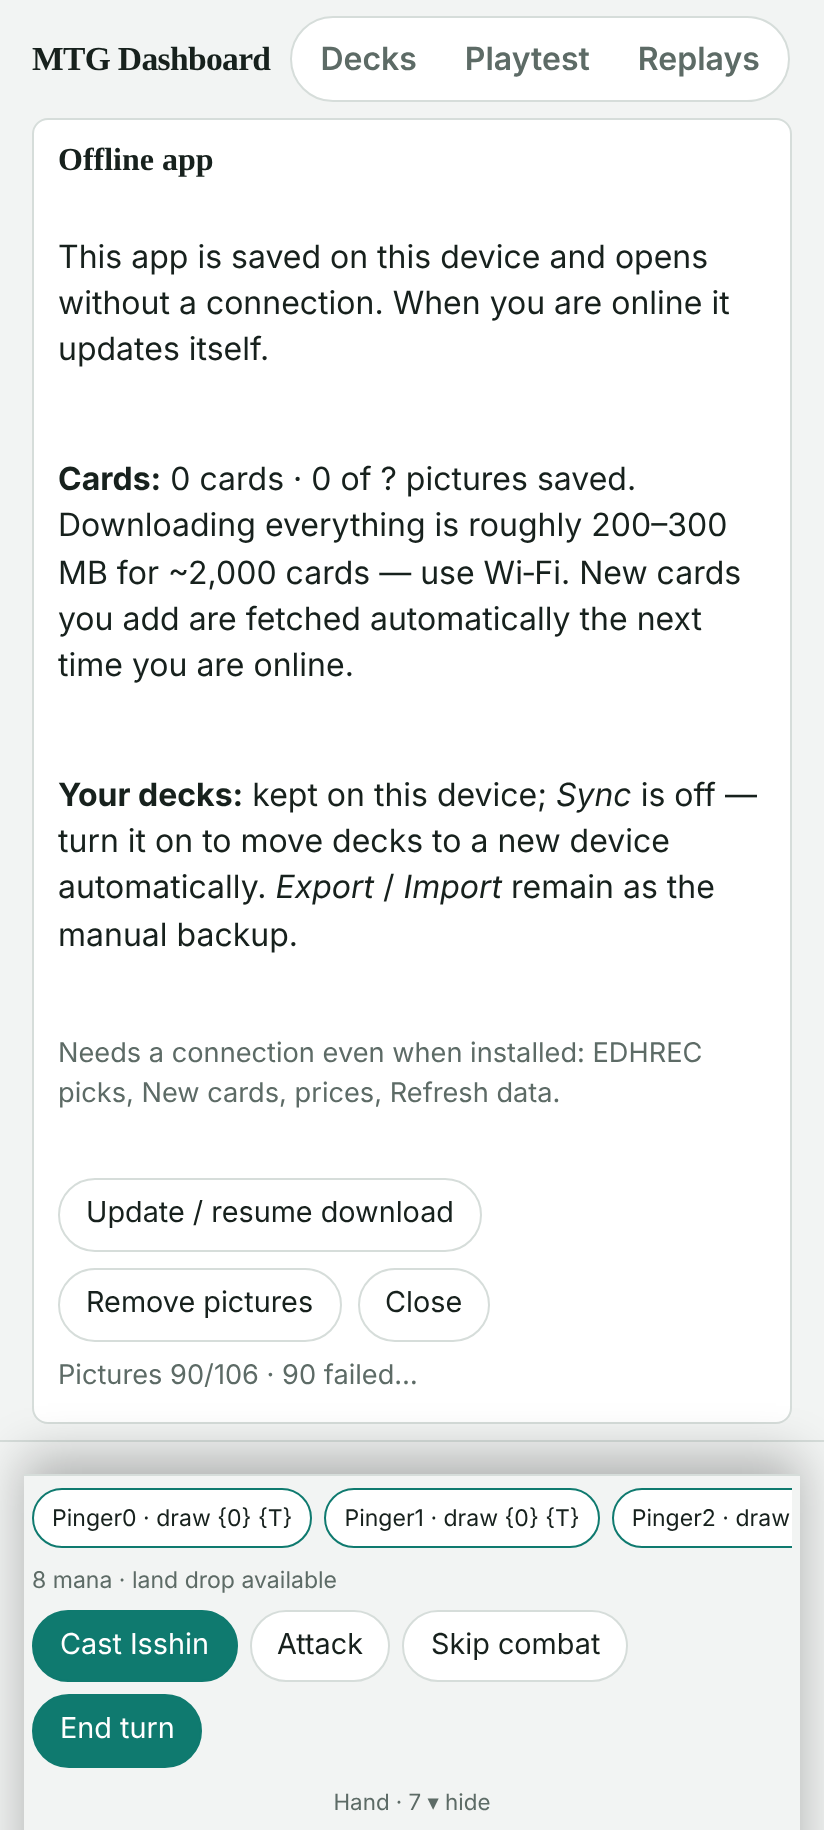
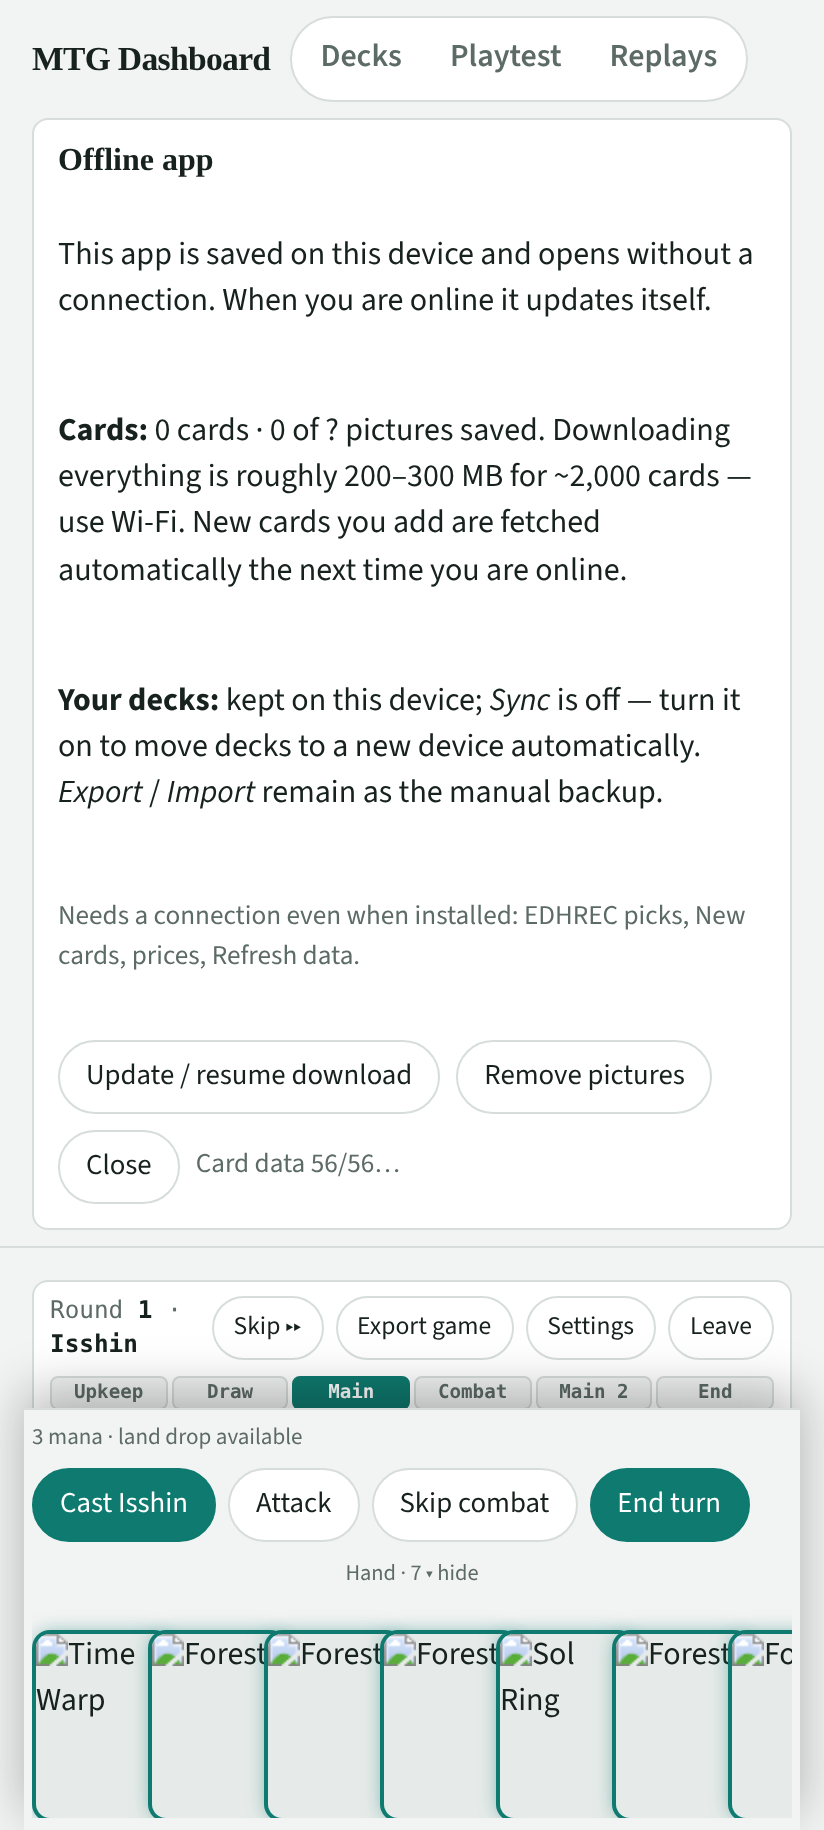
v148: Phyrexian Tower taps for colourless; black only by sacrificing a creature
Claude-Session: https://claude.ai/code/session_01CKgS67nCipgpfvuKAsciJ7

diff --git a/playtest.js b/playtest.js
@@ -2481,6 +2481,11 @@ function tagCard(c) {
     }
     for (const col of 'WUBRG') if (new RegExp('add \\{' + col + '\\}|\\{t\\}: add \\{[^}]*' + col, 'i').test(o) || new RegExp('\\b' + { W: 'plains', U: 'island', B: 'swamp', R: 'mountain', G: 'forest' }[col] + '\\b', 'i').test(front)) card.produces.push(col);
     for (const mm of o.matchAll(/\{t\}(?:, pay \d+ life)?: add ([^.\n]+)/gi)) for (const s of mm[1].matchAll(/\{([wubrg])\}/gi)) { const col = s[1].toUpperCase(); if (!card.produces.includes(col)) card.produces.push(col); }
+    { /* b42: a colour that only appears behind an extra cost is not what the land taps for. Phyrexian Tower ("{T}: Add {C}" / "{T}, Sacrifice a creature: Add {B}{B}") was tapping for black on its own. */
+      const cols = t => [...t.matchAll(/\{([wubrg])\}/gi)].map(x => x[1].toUpperCase()); const bad = new Set(), good = new Set();
+      for (const ln of o.split('\n')) { const mm = ln.match(/^([^:"]*): add ([^.\n]+)/i); if (!mm) continue; const extra = /\bsacrifice (?!this\b)|\bdiscard\b/i.test(mm[1]); for (const k of cols(mm[2])) (extra ? bad : good).add(k); }
+      const basic = col => new RegExp('\\b' + { W: 'plains', U: 'island', B: 'swamp', R: 'mountain', G: 'forest' }[col] + '\\b', 'i').test(front);
+      if (bad.size) card.produces = card.produces.filter(k => !bad.has(k) || good.has(k) || basic(k)); }
     if (/any color in your commander's color identity/i.test(o)) card.cmdIdentity = true;
     if (/add one mana of any color|mana of any (one )?color|any type/i.test(o) || /command tower|mana confluence|city of brass|exotic orchard|reflecting pool|forbidden orchard|gemstone caverns|path of ancestry/i.test(c.name)) card.produces = ['W', 'U', 'B', 'R', 'G'];
     if (/^\{t\}: add one mana of any color that a land an opponent controls could produce/m.test(o)) card.landDyn = 'oppLands';
@@ -2490,6 +2495,7 @@ function tagCard(c) {
     { const ma = parseManaAbility(o.split('\n//\n')[0]); card.manaAmount = ma ? ma.amount : 1; }
     { const fc = (c.type || '').split(' // '); if (fc.length > 1 && /\bLand\b/.test(fc[1]) && (c.oracle || '').includes('\n//\n')) { const back = tagCard({ name: c.name.split(' // ')[1] || c.name, type: fc[1], oracle: (c.oracle || '').split('\n//\n')[1] || '', cmc: 0, img: c.img }); back.orig = card; card.backLand = back; card.pathway = true; } }
     tagLandEntry(card, o); tagGyHate(card, o); tagAbilities(card); tagFlags(card, c, o, true);
+    { /* b42: …and the costed mode is its own ability: tap, sacrifice a creature, add that mana */ const sm = o.match(/^\{t\}, sacrifice an? (creature|artifact|land|swamp|permanent): add ((?:\{[wubrgc]\})+)\.?$/im); if (sm && !(card.abilities || []).some(a => a.mana && a.sacOther)) { const colors = [...sm[2].matchAll(/\{([wubrgc])\}/gi)].map(x => x[1].toUpperCase()); (card.abilities = card.abilities || []).push({ zone: 'battlefield', label: 'sacrifice for ' + sm[2].toUpperCase(), cost: { generic: 0, pips: { W: 0, U: 0, B: 0, R: 0, G: 0 }, total: 0, x: false }, tap: true, sacSelf: false, exileSelf: false, discardSelf: false, life: 0, exileOthers: 0, discard: 0, sacOther: sm[1].toLowerCase(), speed: 'instant', mana: true, ops: [{ op: 'addMana', colors }], text: 'add ' + sm[2].toLowerCase() + '.' }); } }
     if (card.saga) { const sv = card.saga; card.saga = sv; }
     return card;
   }

diff --git a/index.html b/index.html
@@ -825,7 +825,7 @@ function toggleCheck(open){const p=$('#checkpanel');p.hidden=!open;if(!open)retu
       const missing=rows.filter(r=>r.a.missing),cond=rows.filter(r=>!r.a.missing&&r.a.generic),fine=rows.length-missing.length-cond.length;
       const notFound=[...where.entries()].filter(([k])=>!found.has(k)).map(([,v])=>v.name);
       const li=r=>`<li><b>${esc(r.c.name)}</b> <span class="note">· ${esc(r.decks.join(', '))}</span><ul style="margin:2px 0 6px;padding-left:16px">${r.a.lines.filter(x=>x.status==='missing'||x.status==='generic').map(x=>`<li class="note">${x.status==='missing'?'✗':'?'} ${esc(x.line)}</li>`).join('')}</ul></li>`;
-      const flagged=[...missing,...cond];S.checkReport=JSON.stringify({generated:new Date().toISOString(),engine:'v147',cards:flagged.map(r=>[0,r.c.name,r.c.mana,r.c.type,r.c.oracle,r.c.cmc,r.c.power??null,r.c.toughness??null,r.c.loyalty??null,r.a.lines.filter(x=>x.status!=='ok'&&x.status!=='tested').map(x=>(x.status==='missing'?'MISSING ':'COND ')+x.line)]),notFound});
+      const flagged=[...missing,...cond];S.checkReport=JSON.stringify({generated:new Date().toISOString(),engine:'v148',cards:flagged.map(r=>[0,r.c.name,r.c.mana,r.c.type,r.c.oracle,r.c.cmc,r.c.power??null,r.c.toughness??null,r.c.loyalty??null,r.a.lines.filter(x=>x.status!=='ok'&&x.status!=='tested').map(x=>(x.status==='missing'?'MISSING ':'COND ')+x.line)]),notFound});
       $('#chkres').innerHTML=`<p><b>${rows.length}</b> cards checked: <b>${fine}</b> fully covered, <b>${cond.length}</b> with a condition unverified, <b>${missing.length}</b> with text not modelled.${notFound.length?` <span class="err">${notFound.length} name${notFound.length===1?'':'s'} not found on Scryfall: ${esc(notFound.join(', '))}</span>`:''}</p>
         ${flagged.length?`<div class="row"><button class="chip pri" id="chkcopy">Copy report for Claude</button><button class="chip" id="chkdl">Download report</button><span class="note" id="chkcopied"></span></div>`:''}
         ${missing.length?`<h4>Not modelled</h4><ul style="padding-left:18px">${missing.map(li).join('')}</ul>`:''}
@@ -979,7 +979,7 @@ function showView(v){const rep=v==='replays';if(rep)v='play';$('#home').hidden=v
   if(rep){if(!location.hash.startsWith('#replays'))history.replaceState(null,'','#replays')}else if(v==='play'){if(!location.hash.startsWith('#playtest'))history.replaceState(null,'','#playtest')}else if(location.hash.startsWith('#playtest')||location.hash.startsWith('#replays'))history.replaceState(null,'',location.pathname+location.search);
   window.scrollTo(0,0)}
 function loadScript(src){return new Promise((res,rej)=>{const s=document.createElement('script');s.src=src;s.onload=res;s.onerror=()=>rej(new Error(src+' failed to load'));document.head.appendChild(s)})}
-let ptLoaded=null;function loadPlaytest(){if(!ptLoaded)ptLoaded=loadScript('playtest.js?v=147').then(()=>loadScript('playtest-ui.js?v=147'));return ptLoaded}
+let ptLoaded=null;function loadPlaytest(){if(!ptLoaded)ptLoaded=loadScript('playtest.js?v=148').then(()=>loadScript('playtest-ui.js?v=148'));return ptLoaded}
 const PT={cfg:null,table:null};
 /** the saved list as a Moxfield/Archidekt-style visual grid, grouped by type, plus a Playtest-pool check */
 const GRIDCACHE=new Map();

diff --git a/tests/walkers.js b/tests/walkers.js
@@ -1429,5 +1429,12 @@ const put=async(g,p,name)=>{const pm=await g.enterPerm(p,C(name));pm.summoning=f
        ok("Sonic + Kilo attack: both triggers are on the stack together and I order them — counters first, then proliferate",!!order&&order.length===2&&so.counters===2&&ki.counters===2,JSON.stringify([order,so.counters,ki.counters])); }
      { const [g,me]=base(); clear(g); const opp=g.players[1]; const il=put(g,me,DC('Ilharg, the Raze-Boar')); me.hand=[L('Mountain','Mountain')]; const n=g.log.length; await g.runOps(me,il.card.triggers[0].ops,il.card,{perm:il}); ok('Ilharg with no creature card in hand says so',g.log.slice(n).some(x=>/no creature card in hand/.test(x.m))); }
    }
+   // v148 (b42): Phyrexian Tower taps for {C}; black only by sacrificing a creature
+   { const J=require(__dirname+'/../data/cards.json'); const r=J.cards.find(r=>r[0]==='Phyrexian Tower'); const pt=tagCard({name:r[0],mana:r[1],type:r[2],oracle:r[3],cmc:r[4]});
+     const [g,me]=base(); for(const q of g.players)q.battlefield=[]; me.pool=[]; const [pm]=await g.landEnters(me,pt); const bsp=tagCard(mk('Black Spell','Sorcery','{B}','Draw a card.',1)), csp=tagCard(mk('Grey Spell','Artifact','{1}','',1)); me.hand=[bsp,csp];
+     ok('Phyrexian Tower alone: colourless only — a {B} spell is not castable, a {1} spell is',pt.produces.join('')==='C'&&!g.castMode(me,bsp,'hand')&&!!g.castMode(me,csp,'hand'),JSON.stringify(pt.produces));
+     const none=g.abilityOptions(me,{instant:true}).filter(o=>o.card===pt).length; const fod=put(g,me,cr('Fodder','Goat',0,1)); const opt=g.abilityOptions(me,{instant:true}).find(o=>o.card===pt);
+     g.hooks.humanSearch=async q=>q.pool.filter(c=>c.name==='Fodder'); if(opt) await g.doAction(me,opt); 
+     ok('Phyrexian Tower: tap and sacrifice a creature for {B}{B}',none===0&&!!opt&&!me.battlefield.includes(fod)&&pm.tapped&&(me.pool||[]).filter(x=>x.c==='B').length===2,JSON.stringify([none,!!opt,me.pool])); }
  }
  console.log(fails+' failed');})();

diff --git a/HANDOVER.md b/HANDOVER.md
@@ -26,8 +26,9 @@ Advisor, not assistant. First sentence must challenge an assumption or expose a 
 
 ## 3. Current state
 
-- **Deployed: v147** (2026‑11‑16)
+- **Deployed: v148** (2026‑11‑18)
   `sed -i 's/playtest\.js?v=122/playtest.js?v=123/; s/playtest-ui\.js?v=122/playtest-ui.js?v=123/; s/engine:'"'"'v122'"'"'/engine:'"'"'v123'"'"'/' index.html`
+- **v148 (b42) — Phyrexian Tower tapped for black.** Land colours came from any `add {X}` in the text, so a colour that only appears behind a sacrifice/discard cost counted as a plain tap. In the land block of `tagCard`, colours found only on lines whose cost says `sacrifice <something other than this>` or `discard` are removed from `produces` (kept if a plain line or a basic land type also gives them). The costed mode becomes its own activated ability (`tap`, `sacOther`, `mana:true`, `addMana`). Whole‑corpus diff: 1 of 1,298 lands changed (Phyrexian Tower). Known and NOT changed: Cabal Coffers still reads as a free {B} tap (its only mana line costs {2}); filter lands still tap for their colours without the mana input. Test: walkers v148 block.
 - **v147 (b41, six v144 recordings; all four seats at 100 cards).** (1) **Colour identity was dropped in `tagCard`** — `card.ci` is now kept from the page's `ci`, else derived from mana cost(s) + mana symbols in rules text. Command Tower / Arcane Signet / Opal Palace under Sisay ({2}{W}, WUBRG identity) made only white; affects every commander whose identity exceeds its cost. (2) **`pendingGen` triggers go on the stack** (`flushPending` → `trigger()`): Valakut the Molten Pinnacle, Kilo's 'becomes tapped', Kodama, token/mill/graveyard watchers used to resolve on the spot with no response window. (3) Declare‑attackers triggers are held together (`held()` around the `attack` emit + `attackTriggers`) so 'attacks' and 'becomes tapped' triggers stack in one batch and the controller orders them (Sonic counters, then Kilo proliferates). (4) Ertai Resurrected: modes are `b41_ertaiCounter` / `b41_ertaiDestroy` (they parsed to a bare draw). (5) Flameshape: `b41_exilePlay {n, need}`; `exileCast` entries carry `b41_need` ('if you control a Wizard'). (6) Breena, the Demagogue: once per attacked opponent that qualifies, ×2 with `attackTrigDouble`, controller picks the creature. (7) Oath of Teferi `blinkOwnEnd {anyPerm}` — lands/tokens targetable by the human; `endReturns` returns lands through `landEnters` + landfall and never returns tokens. (8) `damageMulti` (Myojin of Roaring Blades) uses the any‑target list per target; `b13_dmgOppAny` lists my own creatures too. (9) `putFromHand` says when the hand has no matching card (Ilharg); `stealArtifacts` records the owner. UI: ability chips are grouped (identical card+ability = one chip ×N, sorted by card) and fold beyond 14 (`abil-toggle`). Reports the logs contradicted: The Fire Crystal (stolen by Hellkite Tyrant on the AI's turn; verified the discount stops — the cheap casts were Tannuk's warp {2}{R}); Silence (Yuna cast nothing afterwards — she activated The Earth Crystal, an ability); Ilharg (hand was Nykthos only); Warstorm Surge (it did hit a creature at one point; opponents' warped creatures leave at end step). **Not fixed — Deflecting Swat on abilities:** triggered abilities choose their targets on resolution in this engine, so there is no target on the stack object to change (`doRedirect` says 'nothing to redirect'). Needs targets chosen when the trigger is put on the stack. Tests: walkers v147 block; `tests/ui/phasebar.js` (ability grouping).
 - **v146 — Save list always includes the commander.** Kinnan's export files the commander on the last line under `SIDEBOARD:`, which `parseListFull` skips, so the list saved as 99. The `#savelist` handler now appends the deck's commander when none of `commanderNames(d)` is in the parsed list. Writing `localStorage.decks` from another tab does NOT stick while the user's own tab is open (its in‑memory `S.decks` is written back) — change saved decks through the page's own controls. Test: `tests/ui/savecmd.js`.
 - **v145 — why some decks were under 100 (real cause).** Read the saved lists from the user's Chrome (with permission): seven decks (Sonic 81, Peter Parker 87, Terra 87, Teysa 89, Teval 90, Y'shtola 92, Kinnan 99 = fine without its commander line) each hold every basic land exactly ONCE, while lists saved later hold 'Mountain ×27'. They were saved by an older page that stripped quantities; today's `parseListFull` keeps them. `padBasics(list, cmd)` (index.html) fills such a list to 100 at game time with its own basics, evenly, without touching the saved list; the pre‑game notice and the export header ('read as: 81 cards saved; filled to 100 with 7 Island, 6 Mountain, 6 Plains') say so. Exact counts need the user to re‑paste each export on the Decks tab. My v143 theory (names failing to load) and v144 theory (lists simply incomplete) were both wrong.
